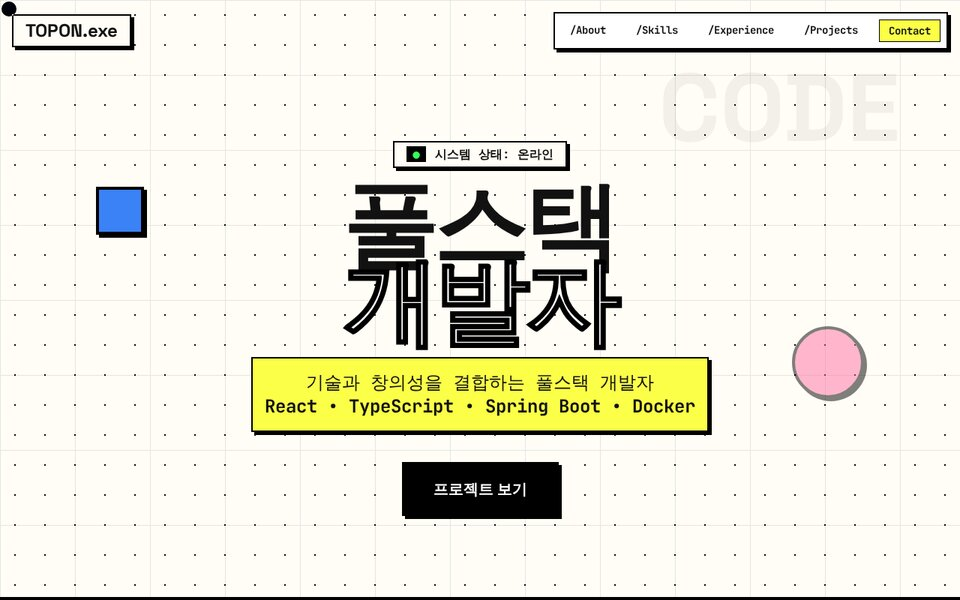
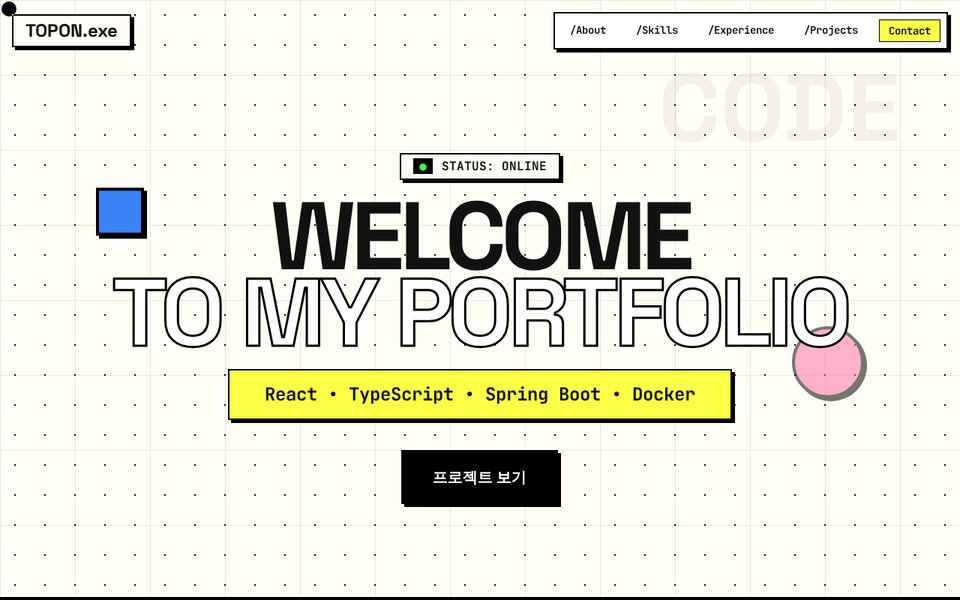
feat: emphasize AWS skills, fix commit count, update hero/marquee text, retake portfolio screenshot

Changed region(s): [[0.0938, 0.21, 0.9062, 0.87], [0.0938, 0.36, 0.1562, 0.39], [0.0938, 0.3, 0.1562, 0.33]]

diff --git a/index.html b/index.html
@@ -304,8 +304,8 @@
     <div class="border-b-4 border-black bg-neo-blue py-3 relative z-20">
         <div class="marquee-container font-mono font-bold text-2xl text-white">
             <div class="marquee-content">
-                /// FULL STACK /// REAL-TIME /// CLOUD NATIVE /// OPEN SOURCE /// SCALABLE /// PRODUCTION-READY ///
-                /// FULL STACK /// REAL-TIME /// CLOUD NATIVE /// OPEN SOURCE /// SCALABLE /// PRODUCTION-READY ///
+                /// FULL STACK /// AWS CLOUD /// REAL-TIME /// CI/CD /// DOCKER /// PRODUCTION-READY ///
+                /// FULL STACK /// AWS CLOUD /// REAL-TIME /// CI/CD /// DOCKER /// PRODUCTION-READY ///
             </div>
         </div>
     </div>
@@ -323,12 +323,12 @@
                 <h2 class="text-6xl font-black uppercase mb-6">About Me</h2>
                 <p class="font-mono text-xl leading-relaxed mb-6">
                     웹으로 사람들을 연결하는 개발자입니다.
-                    실시간 협업 툴부터 클라우드 인프라까지, 직접 설계하고 배포하는 과정을 즐기는 개발자입니다.
+                    AWS 클라우드 인프라 설계부터 실시간 웹 서비스 개발까지, 직접 구축하고 운영하는 풀스택 개발자입니다.
                 </p>
                 <p class="font-mono text-lg mb-8 text-gray-600 border-l-4 border-neo-purple pl-4">
-                    > 실시간 웹과 클라우드 인프라에 관심이 많습니다<br>
-                    > React, Spring Boot, Docker 기반으로 개발합니다<br>
-                    > 사람과 사람을 연결하는 서비스에 관심이 많습니다
+                    > AWS EC2, S3, RDS 기반 클라우드 인프라 설계 및 운영<br>
+                    > Docker, Jenkins를 활용한 CI/CD 파이프라인 구축<br>
+                    > React, Spring Boot 기반 실시간 웹 서비스 개발
                 </p>
 
                 <div class="flex gap-4">
@@ -457,6 +457,18 @@
                 </div>
 
                 <div
+                    class="group w-1/2 sm:w-1/3 md:w-1/4 lg:w-1/6 xl:w-[12.5%] h-24 border-r-2 border-b-2 border-white/20 bg-neo-black hover:bg-neo-orange transition-all duration-0 hover:z-10 relative cursor-hover flex flex-col items-center justify-center p-2">
+                    <div class="text-neo-green group-hover:text-black font-mono text-xs mb-1 opacity-50">>_ STORAGE</div>
+                    <div class="text-white group-hover:text-black font-black font-display text-xl uppercase">AWS S3</div>
+                </div>
+
+                <div
+                    class="group w-1/2 sm:w-1/3 md:w-1/4 lg:w-1/6 xl:w-[12.5%] h-24 border-r-2 border-b-2 border-white/20 bg-neo-black hover:bg-neo-orange transition-all duration-0 hover:z-10 relative cursor-hover flex flex-col items-center justify-center p-2">
+                    <div class="text-neo-green group-hover:text-black font-mono text-xs mb-1 opacity-50">>_ DATABASE</div>
+                    <div class="text-white group-hover:text-black font-black font-display text-xl uppercase">AWS RDS</div>
+                </div>
+
+                <div
                     class="group w-1/2 sm:w-1/3 md:w-1/4 lg:w-1/6 xl:w-[12.5%] h-24 border-r-2 border-b-2 border-white/20 bg-neo-black hover:bg-neo-pink transition-all duration-0 hover:z-10 relative cursor-hover flex flex-col items-center justify-center p-2">
                     <div class="text-neo-green group-hover:text-black font-mono text-xs mb-1 opacity-50">>_ SERVER</div>
                     <div class="text-white group-hover:text-black font-black font-display text-xl uppercase">NGINX</div>
@@ -498,7 +510,7 @@
             </div>
 
             <div class="border-t-4 border-white mt-8 pt-4 flex justify-between font-mono text-xs text-gray-500">
-                <span>TOTAL_NODES: 22</span>
+                <span>TOTAL_NODES: 24</span>
                 <span>MEMORY_USAGE: 256MB</span>
             </div>
         </div>
@@ -520,9 +532,10 @@
                     </div>
                     <p class="font-mono text-xl mb-2 text-neo-green font-bold">클라우드 데브옵스 풀스택 부트캠프 수료</p>
                     <ul class="list-disc list-inside font-mono text-gray-700 space-y-1">
-                        <li>React, Spring Boot, Docker를 활용한 풀스택 애플리케이션 개발</li>
-                        <li>AWS와 CI/CD 파이프라인을 통한 클라우드 인프라 관리</li>
-                        <li>실시간 협업 웹 애플리케이션 개발</li>
+                        <li>AWS EC2, S3, RDS를 활용한 클라우드 인프라 설계 및 배포</li>
+                        <li>Docker, Jenkins 기반 CI/CD 파이프라인 구축 및 자동화</li>
+                        <li>React, Spring Boot, WebSocket을 활용한 실시간 협업 웹 애플리케이션 개발</li>
+                        <li>Nginx 리버스 프록시, SSL 인증서 관리 등 서버 운영</li>
                     </ul>
                 </div>
             </div>
@@ -1026,11 +1039,28 @@
             }
         }
 
-        function applyGitHubData(data) {
+        async function applyGitHubData(data) {
             // Stats
             document.getElementById('repos-count').textContent = data.public_repos || '0';
             document.getElementById('followers-count').textContent = data.followers || '0';
-            const contribValue = `${(data.public_repos * 20) + (data.followers * 5)}+`;
+
+            // Fetch actual commit counts from all repos
+            let totalCommits = 0;
+            try {
+                const reposResp = await fetch('https://api.github.com/users/TOPONNN/repos?per_page=100');
+                const repos = await reposResp.json();
+                for (const repo of repos) {
+                    try {
+                        const contribResp = await fetch(`https://api.github.com/repos/TOPONNN/${repo.name}/contributors?per_page=1`);
+                        const contributors = await contribResp.json();
+                        if (Array.isArray(contributors)) {
+                            const me = contributors.find(c => c.login === 'TOPONNN');
+                            if (me) totalCommits += me.contributions;
+                        }
+                    } catch(e) {}
+                }
+            } catch(e) {}
+            const contribValue = totalCommits > 0 ? `${totalCommits}+` : `${(data.public_repos * 20)}+`;
             const ch = document.getElementById('total-contributions');
             const cg = document.getElementById('total-contributions-grid');
             if (ch) ch.textContent = contribValue;
